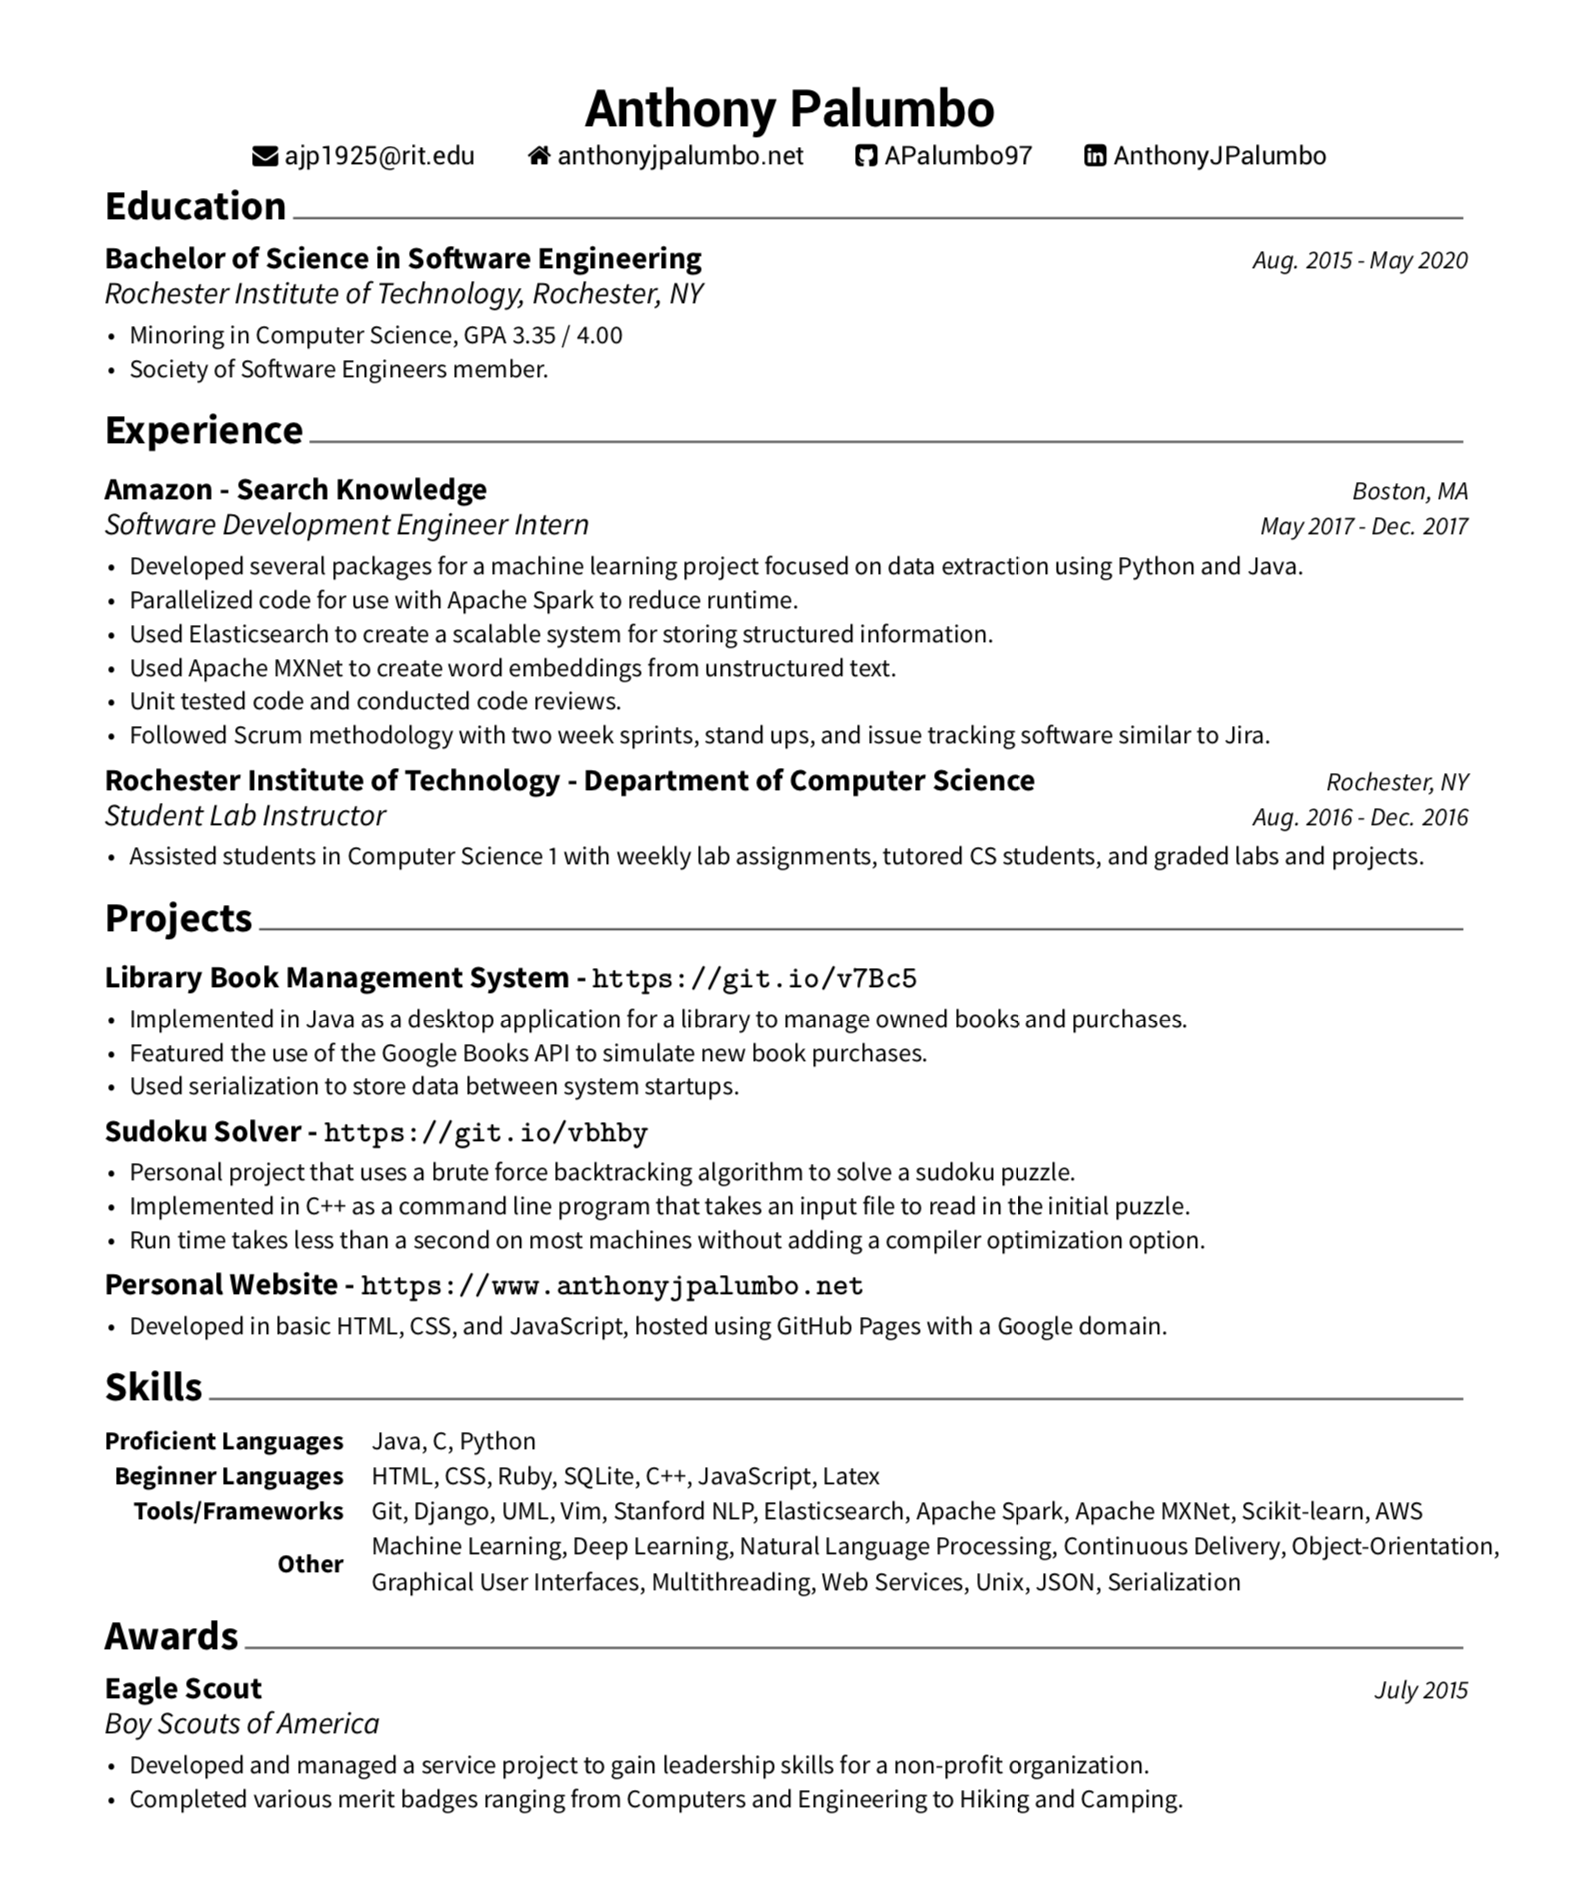
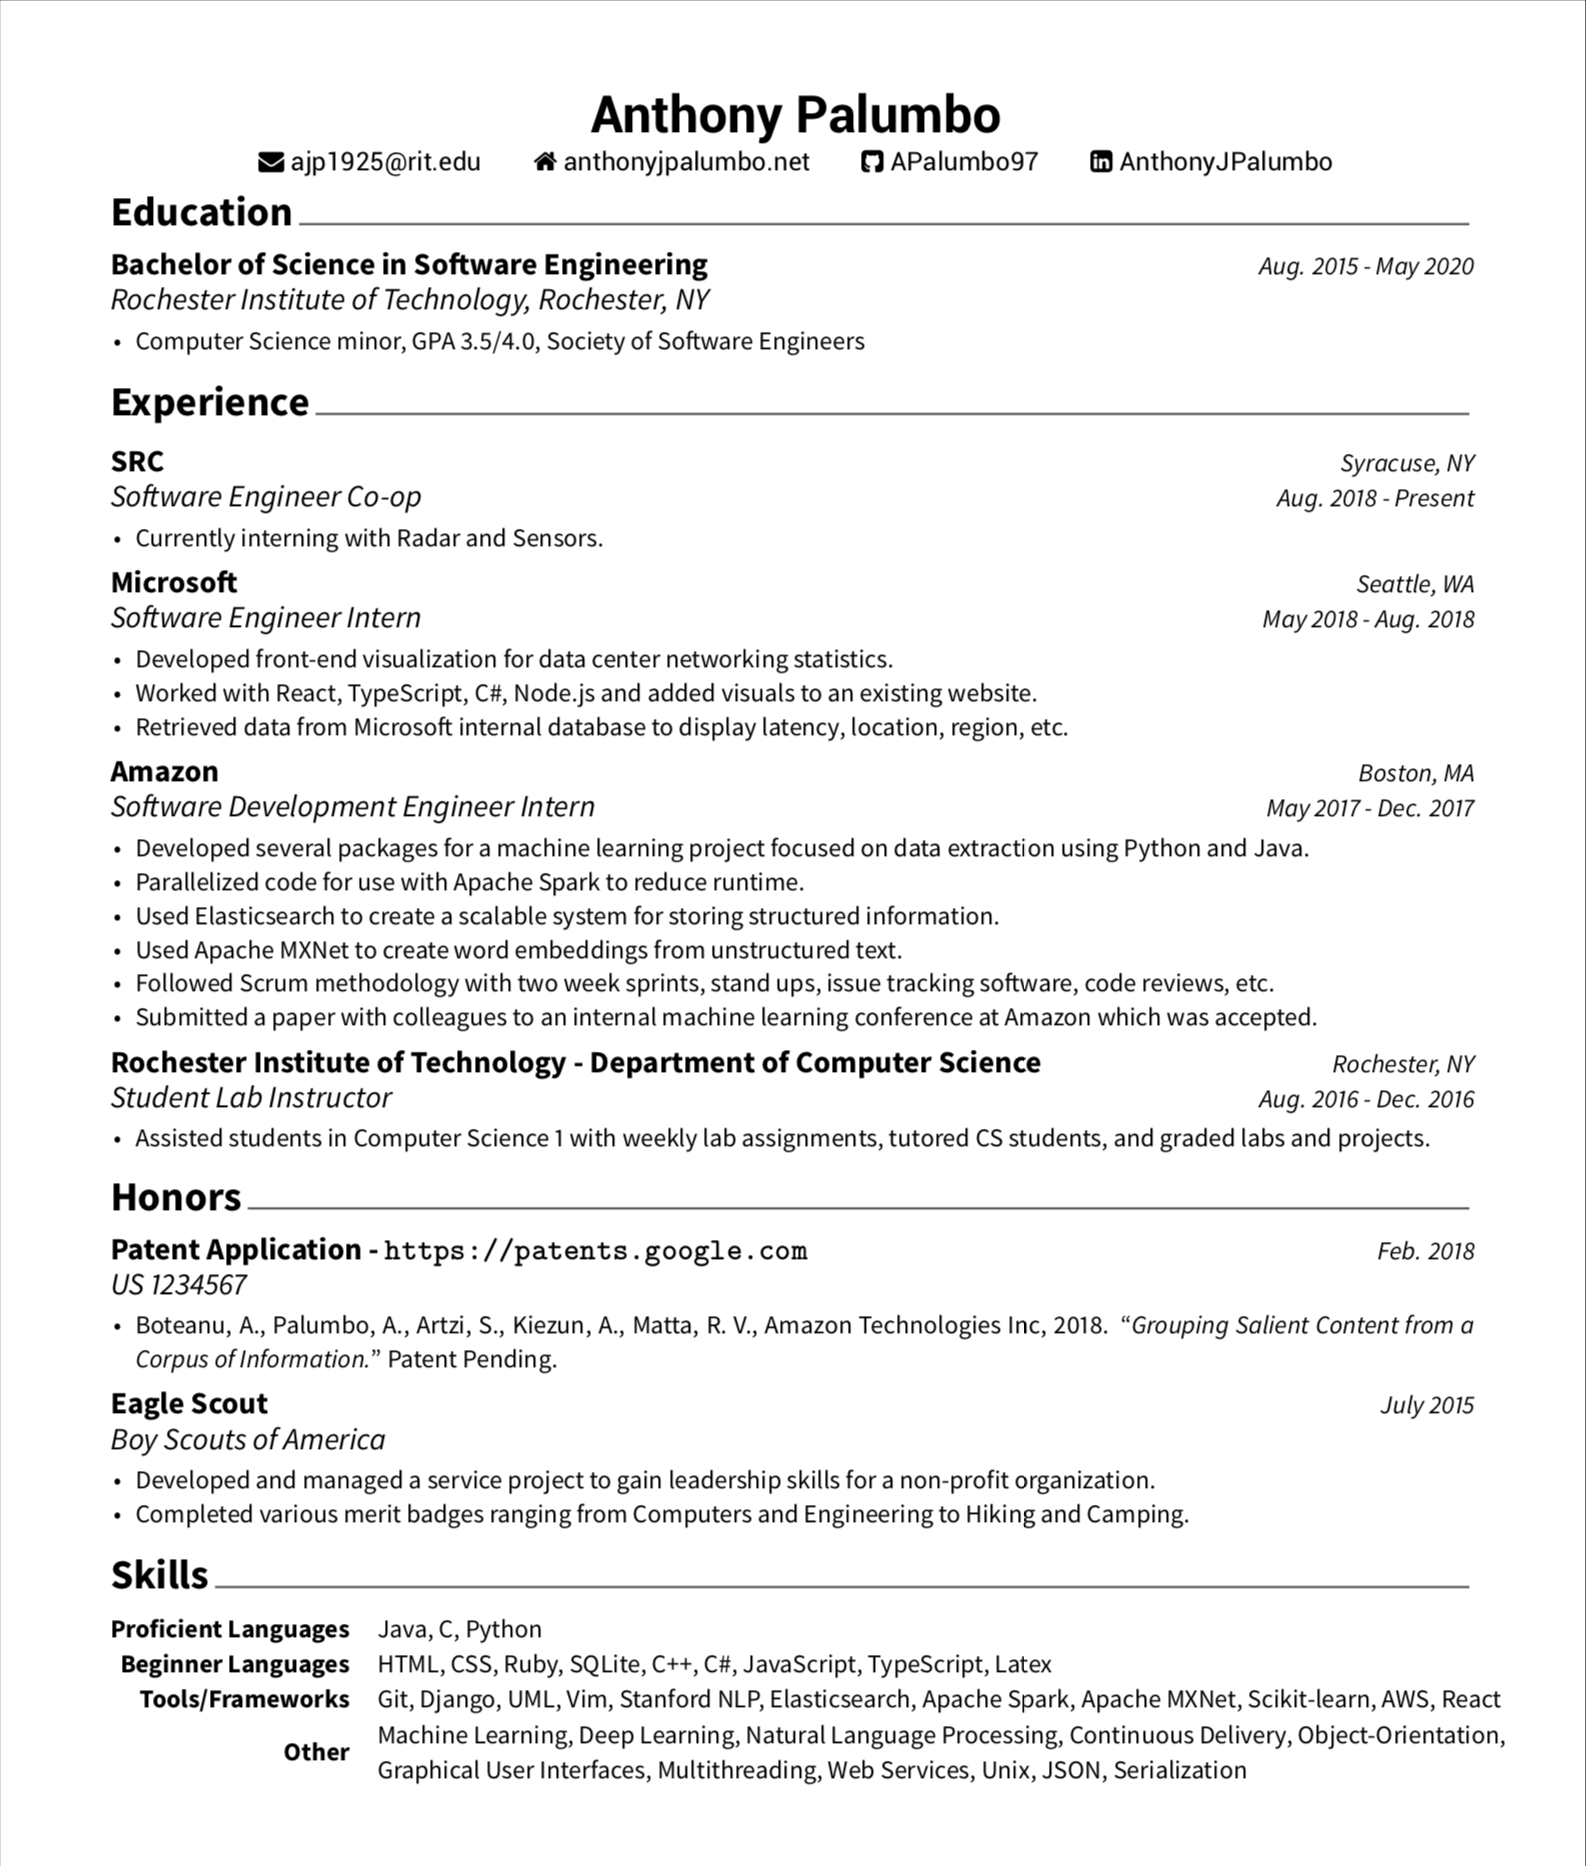
Updated resume, home page description, and added unix commands.

Changed region(s): [[0.0623, 0.0311, 0.9351, 0.9636], [0.9975, 0.0, 1.0, 1.0]]

diff --git a/index.html b/index.html
@@ -72,9 +72,9 @@
         <h3 class="center-title">About Me</h3>
         <p class="info">
             Undergraduate student at Rochester Institute of Technology pursuing a Bachelor of Science in Software
-            Engineering. I have interned with Amazon in Boston, MA from May - December 2017 and I will be interning with
-            Microsoft in Seattle, WA during the summer of 2018. In 2015 I earned the rank of Eagle Scout with the Boy
-            Scouts of America.
+            Engineering. Previously I have interned with Amazon in Boston, MA and Microsoft in Seattle, WA. Currently
+            I am interning with SRC in Radar and Sensors. In 2015 I earned the rank of Eagle Scout with the Boy Scouts
+            of America.
         </p>
         <p class="info">
             My plans for the future include completing my undergraduate degree at RIT, gaining more experience through

diff --git a/pages/commands.html b/pages/commands.html
@@ -479,6 +479,10 @@
                 <td>python3 file.py</td>
                 <td>Runs file.py using the version of python 3 installed.</td>
             </tr>
+            <tr>
+                <td>pip install [package-name]</td>
+                <td>Installs a python package using pip.</td>
+            </tr>
         </table>
         <br/><br/>
         <h3>Miscellaneous</h3>
@@ -522,6 +526,10 @@
             <tr>
                 <td>wc -l filename</td>
                 <td>Counts the number of lines in a file.</td>
+            </tr>
+            <tr>
+                <td>ln -s target-file-path link-name</td>
+                <td>Creates a symlink to a file.</td>
             </tr>
             <tr>
                 <td>du -sh directory/*</td>
